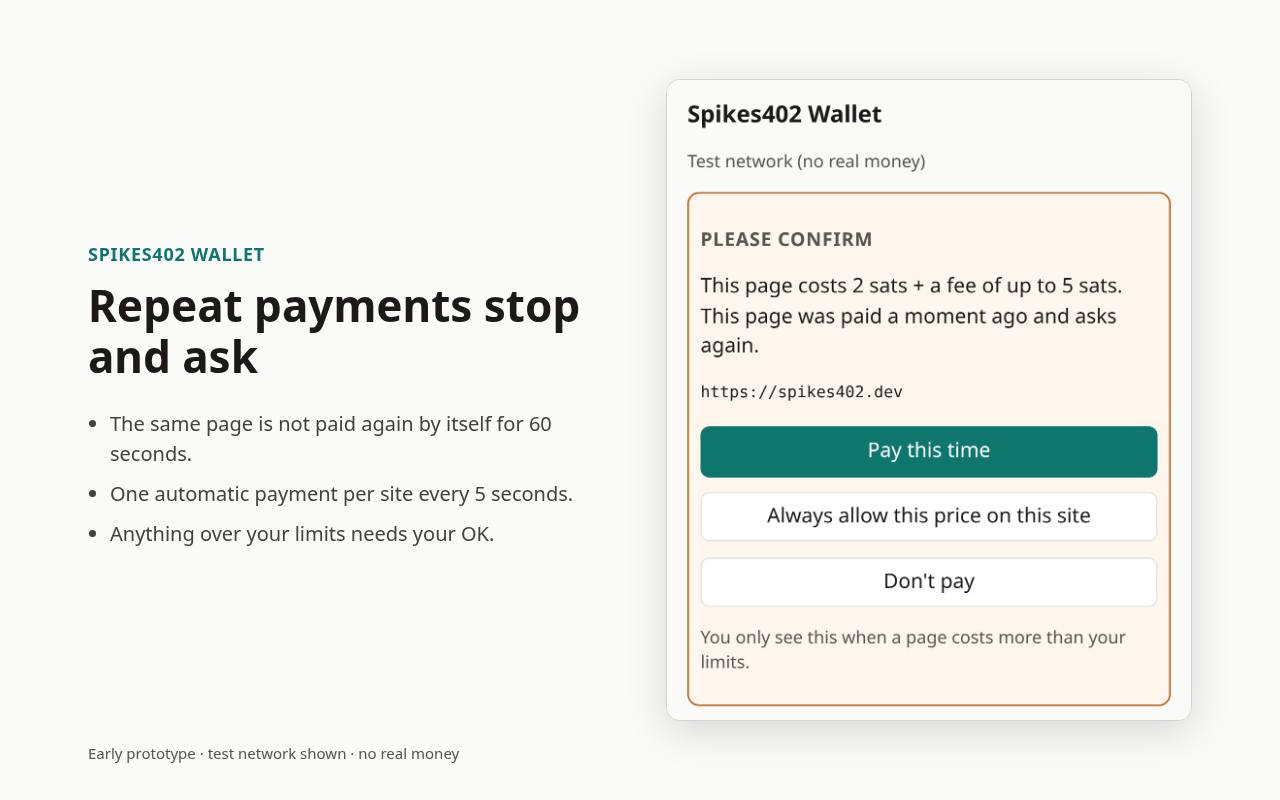
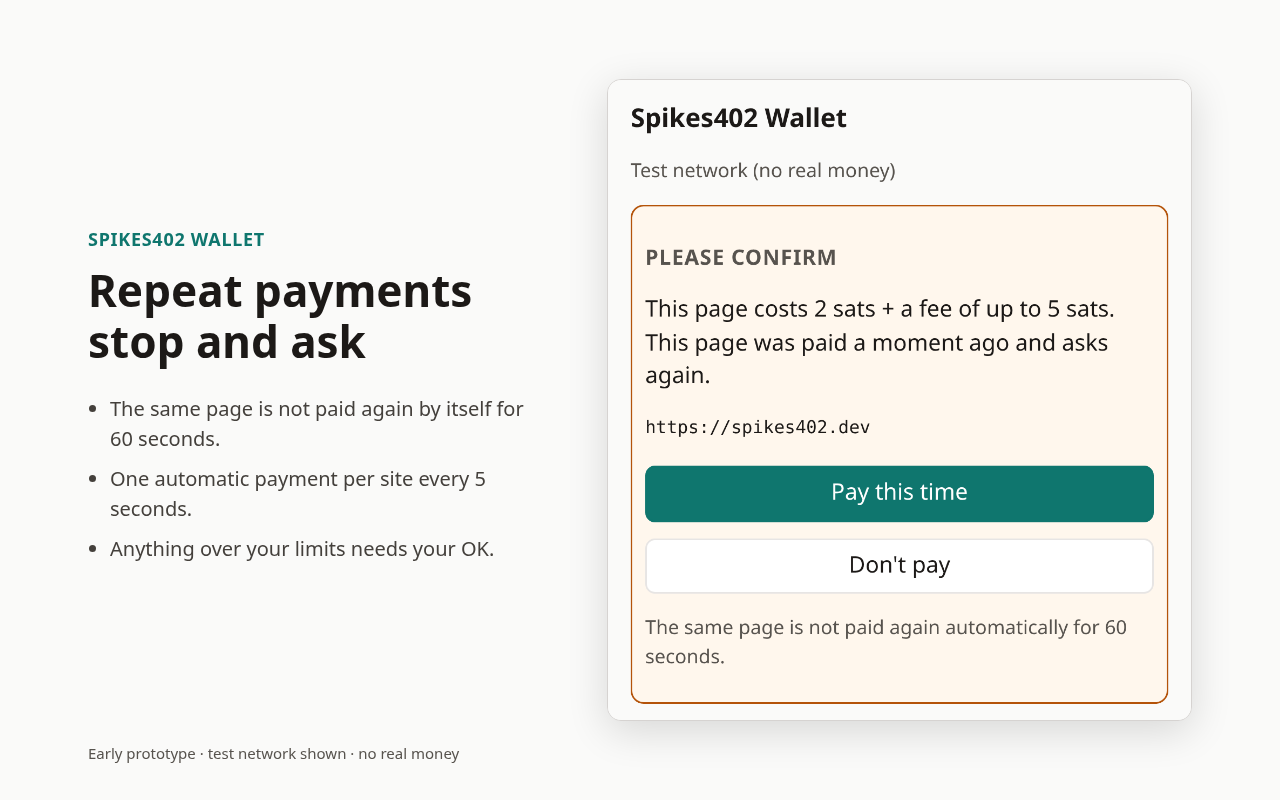
Offer 'Always allow this price' only when a page is over the per-page cap
Repeat, rate-limit, clock-rollback and daily-cap prompts now show only Pay this time / Don't pay, with a footer that matches the reason. Choosing Always allow on those prompts is rejected and stores no allowance; later repeat and rate-limit checks still run. Screenshot 03 and the reviewer instructions (proof-of-work first) are updated.

diff --git a/extension/src/background.test.ts b/extension/src/background.test.ts
@@ -701,15 +701,82 @@ describe("repeat payments from one page", () => {
     const before = sends.length;
     const prompt = await asked("https://a.example", "/p", small());
     expect(prompt.reason).toMatch(/paid a moment ago/);
+    expect(prompt.cause).toBe("same_page");
     expect(sends).toHaveLength(before);
     await later(51_000);
     expect((await payAt("https://a.example", "/p", small())).error).toBeUndefined();
   });
 
+  it("rejects 'always allow' on a repeat or rate-limit prompt, stores no allowance, and later checks still ask", async () => {
+    expect((await payAt("https://a.example", "/p", small())).error).toBeUndefined();
+    await later(10_000);
+    const again = payAt("https://a.example", "/p", small());
+    await later(20);
+    const prompt = state().prompts![0];
+    expect(prompt.cause).toBe("same_page");
+    expect((await answer(prompt.id, "always")).error).toMatch(/this time/);
+    expect(state().settings?.siteAllowances ?? {}).toEqual({});
+    expect(state().prompts).toHaveLength(1); // the question stays open
+    await answer(prompt.id, "once");
+    expect((await again).error).toBeUndefined();
+    // Paying once did not disable the guard: the same page still asks.
+    const third = payAt("https://a.example", "/p", small());
+    await later(20);
+    expect(state().prompts![0].cause).toBe("same_page");
+    expect((await answer(state().prompts![0].id, "always")).error).toMatch(/this time/);
+    await answer(state().prompts![0].id, "refuse");
+    await third;
+
+    await later(61_000);
+    expect((await payAt("https://a.example", "/one", small())).error).toBeUndefined();
+    await later(2_000);
+    const fast = payAt("https://a.example", "/two", small());
+    await later(20);
+    expect(state().prompts![0].cause).toBe("rate_limit");
+    expect((await answer(state().prompts![0].id, "always")).error).toMatch(/this time/);
+    expect(state().settings?.siteAllowances ?? {}).toEqual({});
+    await answer(state().prompts![0].id, "refuse");
+    await fast;
+  });
+
+  it("'always allow' on a per-page cap raises that cap, but does not skip later repeat or rate-limit checks", async () => {
+    const over = inv("70n"); // 7 sats + 5 fee = 12, just over the 10 sat per-page cap, under the daily cap
+    const first = payAt("https://a.example", "/p", over);
+    await later(20);
+    const prompt = state().prompts![0];
+    expect(prompt.cause).toBe("over_payment_cap");
+    expect((await answer(prompt.id, "always")).error).toBeUndefined();
+    expect((await first).error).toBeUndefined();
+    expect(state().settings?.siteAllowances?.["a.example"]).toBe(prompt.costSats);
+    // Same page, still inside the 60s window: must ask, even with the new cap.
+    const again = payAt("https://a.example", "/p", inv("70n"));
+    await later(20);
+    expect(state().prompts![0].cause).toBe("same_page");
+    expect((await answer(state().prompts![0].id, "always")).error).toMatch(/this time/);
+    expect(state().settings?.siteAllowances?.["a.example"]).toBe(prompt.costSats); // unchanged
+    await answer(state().prompts![0].id, "refuse");
+    await again;
+  });
+
+  it("does not store an allowance when the question is a daily cap", async () => {
+    await call({ type: "saveSettings", settings: { maxSatsPerDay: 15 } }, ext);
+    expect((await payAt("https://a.example", "/p", small())).error).toBeUndefined(); // costs 10
+    await later(6_000);
+    const second = payAt("https://one.example", "/q", small(), 2); // 10+10 would be 20
+    await later(20);
+    expect(state().prompts![0].cause).toBe("over_global_day");
+    expect((await answer(state().prompts![0].id, "always")).error).toMatch(/this time/);
+    expect(state().settings?.siteAllowances ?? {}).toEqual({});
+    await answer(state().prompts![0].id, "refuse");
+    await second;
+  });
+
   it("allows one automatic payment per site every 5 seconds, whatever the page", async () => {
     expect((await payAt("https://a.example", "/one", small())).error).toBeUndefined();
     await later(2_000);
-    expect((await asked("https://a.example", "/two", small())).reason).toMatch(/too fast/);
+    const rate = await asked("https://a.example", "/two", small());
+    expect(rate.reason).toMatch(/too fast/);
+    expect(rate.cause).toBe("rate_limit");
     expect(sends).toHaveLength(1);
     await later(4_000);
     expect((await payAt("https://a.example", "/two", small())).error).toBeUndefined();
@@ -824,8 +891,12 @@ describe("the system clock moved", () => {
     await later(20);
     const prompt = state().prompts![0];
     expect(prompt.reason).toMatch(/clock of this computer moved backwards/);
+    expect(prompt.cause).toBe("clock_rollback");
     expect(sends).toHaveLength(1); // not paid by itself
     expect(await call({ type: "autoPayCheck", invoice: fresh() }, at("https://one.example", "/p", 2))).toEqual({ willPay: false });
+    expect((await answer(prompt.id, "always")).error).toMatch(/this time/);
+    expect(state().settings?.siteAllowances ?? {}).toEqual({});
+    expect(state().prompts).toHaveLength(1);
 
     await answer(prompt.id, "once"); // the user says yes
     expect((await q).error).toBeUndefined();

diff --git a/extension/src/background.ts b/extension/src/background.ts
@@ -327,10 +327,12 @@ async function handleWebln(msg: PageMsg, sender: chrome.runtime.MessageSender): 
   if (reserved.action === "confirm") {
     const choice = await askUser({
       origin,
+      site,
       invoice,
       amountSats: amountSats ?? 0,
       costSats: paymentCost(amountSats ?? 0, feeSats),
       reason: reserved.reason,
+      cause: reserved.cause,
       tabId: sender.tab?.id,
     });
     if (choice === "refuse") {
@@ -464,7 +466,9 @@ type Reserved = Decision | { action: "reserved"; reservation: Reservation };
 
 /**
  * Check the caps and book the full cost (amount plus fee cap) in one atomic
- * step. After a user confirmation (force) the caps are not asked again.
+ * step. After a user confirmation (force) the caps, and the repeat / rate /
+ * clock checks, are not asked again for this one reservation. Force is not
+ * stored: later payments still go through those checks.
  */
 function reserve(p: {
   origin: string;
@@ -671,6 +675,11 @@ async function resolvePending(id: string, choice: ConfirmChoice, dailySats?: num
       if (choice === "always" && (!Number.isSafeInteger(limit) || limit < 1)) throw new Error("The daily limit must be a whole number of sats, at least 1.");
       s.settings = withSiteRule(s.settings, pending.site, { trusted: choice === "always", dailySats: limit, since: new Date().toISOString() });
     } else if (choice === "always") {
+      // Only a genuine over-per-page-cap prompt may raise that cap.
+      // Repeat, rate-limit, clock-rollback and daily-cap prompts cannot.
+      if (pending.cause !== "over_payment_cap") {
+        throw new Error("This payment can only be paid this time, or declined.");
+      }
       s.settings = { ...s.settings, ...withSiteAllowance(s.settings, pending.site ?? siteKey(pending.origin) ?? pending.origin, pending.costSats) };
     }
     s.prompts = s.prompts.filter((x) => x.id !== id);

diff --git a/extension/src/popup/popup.ts b/extension/src/popup/popup.ts
@@ -136,6 +136,8 @@ function render(snap: Snapshot, full: boolean) {
     const more = pendingCount > 1 ? ` (${pendingCount - 1} more waiting)` : "";
     $("pending-text").textContent = `This page costs ${pending.amountSats} ${satWord(pending.amountSats)} + a fee of up to ${fee} ${satWord(fee)}. ${pending.reason}${more}`;
     $("pending-origin").textContent = pending.origin;
+    $("pending-foot").textContent = pendingFoot(pending.cause);
+    $("btn-accept-always").hidden = pending.cause !== "over_payment_cap";
     pendingBox.dataset.id = pending.id;
   } else {
     pendingBox.hidden = true;
@@ -150,6 +152,25 @@ function render(snap: Snapshot, full: boolean) {
     $<HTMLSelectElement>("set-network").value = settings.network;
   }
   if (current === "view-history") renderHistory(snap.history);
+}
+
+function pendingFoot(cause: string | undefined): string {
+  switch (cause) {
+    case "over_payment_cap":
+      return "You only see this when a page costs more than your limit for one page.";
+    case "over_site_day":
+      return "Paying would go over today's limit for this site.";
+    case "over_global_day":
+      return "Paying would go over your daily limit across all sites.";
+    case "same_page":
+      return "The same page is not paid again automatically for 60 seconds.";
+    case "rate_limit":
+      return "A site gets at most one automatic payment every 5 seconds.";
+    case "clock_rollback":
+      return "Automatic payments are paused because the clock of this computer moved backwards.";
+    default:
+      return "This payment needs your confirmation.";
+  }
 }
 
 function renderSites(sites: Settings["sites"]) {

diff --git a/extension/src/types.ts b/extension/src/types.ts
@@ -1,4 +1,4 @@
-import type { BudgetSettings, SpendState } from "./budget";
+import type { BudgetSettings, ConfirmCause, SpendState } from "./budget";
 import type { EncryptedVault } from "./crypto";
 import type { GuardState } from "./guard";
 
@@ -39,6 +39,8 @@ export type PendingPayment = {
   amountSats: number;
   costSats: number;
   reason: string;
+  /** Why the wallet is asking; omitted on the first-time site-trust prompt. */
+  cause?: ConfirmCause;
   createdAt: number;
   tabId?: number;
 };

diff --git a/extension/src/popup/index.html b/extension/src/popup/index.html
@@ -109,7 +109,7 @@
           <button id="btn-accept-always" type="button" class="secondary">Always allow this price on this site</button>
           <button id="btn-decline" type="button" class="secondary">Don't pay</button>
         </div>
-        <p class="muted">You only see this when a page costs more than your limits.</p>
+        <p class="muted" id="pending-foot"></p>
       </div>
 
       <p class="balance">Balance: <strong id="balance">—</strong> sats</p>

diff --git a/extension/store/README.md b/extension/store/README.md
@@ -128,17 +128,19 @@ or any secret here.
 ```text
 No account or sign-in is needed. The extension is a self-custodial wallet; everything below works without contacting us.
 
-1. Open the extension popup, choose "Create a new wallet", choose any password (8+ characters), write down the 12 words shown (they only protect this empty test wallet), type the 3 words it asks for, then the wallet opens.
-2. To avoid any real money, scroll to "Network" in the popup, choose "Test network (no real money)", click "Save network", lock and unlock the wallet. "Receive" now creates a test-network invoice.
-3. Visit https://spikes402.dev/premium/ . It returns HTTP 402 and shows a Lightning invoice (2 sats). The extension asks "Allow this site to pay?" with a daily limit. Click "Allow" or "Don't allow", then open the popup: "Trusted sites" lists the choice and lets you remove it.
-4. That demo site runs on real bitcoin (mainnet) and costs 2 sats, so a test-network wallet will refuse the payment with a message that the invoice is for another network; this is the intended safety check. To see a payment succeed, switch the network to "Real bitcoin", fund the wallet with a few sats from any Lightning wallet using "Receive", and reload the page; it is paid automatically (2 sats) and the content opens. The demo can also be opened without a wallet by solving the proof-of-work puzzle shown on the page.
-5. Other checks: "Limits" (default 10 sats per page, 100 per site per day, 500 per day), "Transaction history", and the recovery-words screen (asks for the password).
+1. The recommended way to try the demo, with no wallet funds and no real money, is the proof-of-work path. Visit https://spikes402.dev/premium/ . The page returns HTTP 402 and offers a Lightning invoice (2 sats) or a short proof-of-work puzzle. Solve the puzzle shown on the page; the premium content opens and no payment is made.
+
+2. Optional, to look at the wallet itself: open the extension popup, choose "Create a new wallet", choose any password (8+ characters), write down the 12 words shown (they only protect this empty test wallet), type the 3 words it asks for, then the wallet opens. In Settings, set the network to "Test network (no real money)", save, lock and unlock. "Receive" then creates a test-network invoice.
+
+3. To see the first-time consent prompt without paying: with the wallet unlocked (any network), visit https://spikes402.dev/premium/ again. The extension asks "Allow this site to pay?" with a daily limit. Click "Allow" or "Don't allow", then open the popup: "Trusted sites" lists the choice and lets you remove it. The demo runs on real bitcoin (mainnet) and costs 2 sats, so a test-network wallet refuses the invoice with a message that it is for another Bitcoin network; this is the intended safety check.
+
+4. Other checks in the popup: "Limits" (default 10 sats per page, 100 per site per day, 500 per day), "Transaction history", and the recovery-words screen (asks for the password).
 ```
 
-If Andrea prefers reviewers to see a successful payment without funding anything, the
-alternative is to put a separate, pre-funded throw-away wallet's recovery phrase in that
-private field, with a few dozen sats on it. That is his decision; it is not done here and
-no phrase is stored in this repository.
+A funded throw-away wallet (a few dozen sats on mainnet, so a reviewer can see a 2-sat
+payment succeed) is optional and is the publisher's choice if they want to offer it. It is
+never stored in this repository. If used, put the recovery phrase only in the private
+"Test instructions" field, and only for a wallet that holds a tiny amount.
 
 ## Upload package
 

diff --git a/docs/try-the-wallet.md b/docs/try-the-wallet.md
@@ -91,16 +91,18 @@ automatic payments on this site, up to N sats a day?"; choose **Allow** to
 continue. Allowed sites are listed under "Trusted sites", where you can
 remove them. If the wallet is unlocked and the price fits all three caps,
 the page is paid automatically, and the page shows "Paying N sats…" until it opens. If it
-would go over a cap, the popup asks (showing "N sats + a fee of up to M")
+would go over the per-page cap, the popup asks (showing "N sats + a fee of up to M")
 whether to **pay this time**, **always allow this price on this site**, or
 **not pay**. "Always
-allow" raises the per-page cap for that site only; daily caps still apply.
+allow" raises the per-page cap for that site only; daily caps still apply,
+and later visits still go through the repeat-payment checks below. If a daily
+cap would be exceeded, the popup asks only to **pay this time** or **not pay**.
 If several pages ask at once, the popup shows them one at a time.
 
 A page that was just paid is not paid again by itself for 60 seconds, and a
 site gets at most one automatic payment every 5 seconds: in those cases the
-popup asks. An invoice that was already paid, for another network, or that
-has expired is refused.
+popup asks only to **pay this time** or **not pay**. An invoice that was already
+paid, for another network, or that has expired is refused.
 
 If a payment is slow (no answer after 60 seconds) it is not counted as
 failed: it stays in your budget until the wallet confirms that it settled

diff --git a/extension/README.md b/extension/README.md
@@ -73,10 +73,13 @@ What the wallet stores, who it talks to, and how to delete it:
   sats asks first; you only pay the real fee, which is often lower. Each
   paid page is written to the history with its real fee.
   Pages that fit all three caps are paid automatically, unless one of the
-  repeat-payment guards below applies. If a page costs
-  more, the popup asks whether to pay once, always allow this price on
-  this site, or decline. "Always allow" raises the per-page cap for that
-  site only; later visits still respect the daily caps.
+  repeat-payment guards below applies. If a page costs more than the
+  per-page cap, the popup asks whether to pay once, always allow this
+  price on this site, or decline. "Always allow" raises the per-page cap
+  for that site only; later visits still respect the daily caps and the
+  repeat-payment guards. If a daily cap would be exceeded, or a
+  repeat-payment guard applies, the popup asks only to pay this time or
+  decline.
 - How a payment is booked: the full cost (invoice amount plus the fee cap)
   is counted in the budget **before** the payment is sent, and the same
   fee cap is given to the wallet. When the payment settles, the real cost
